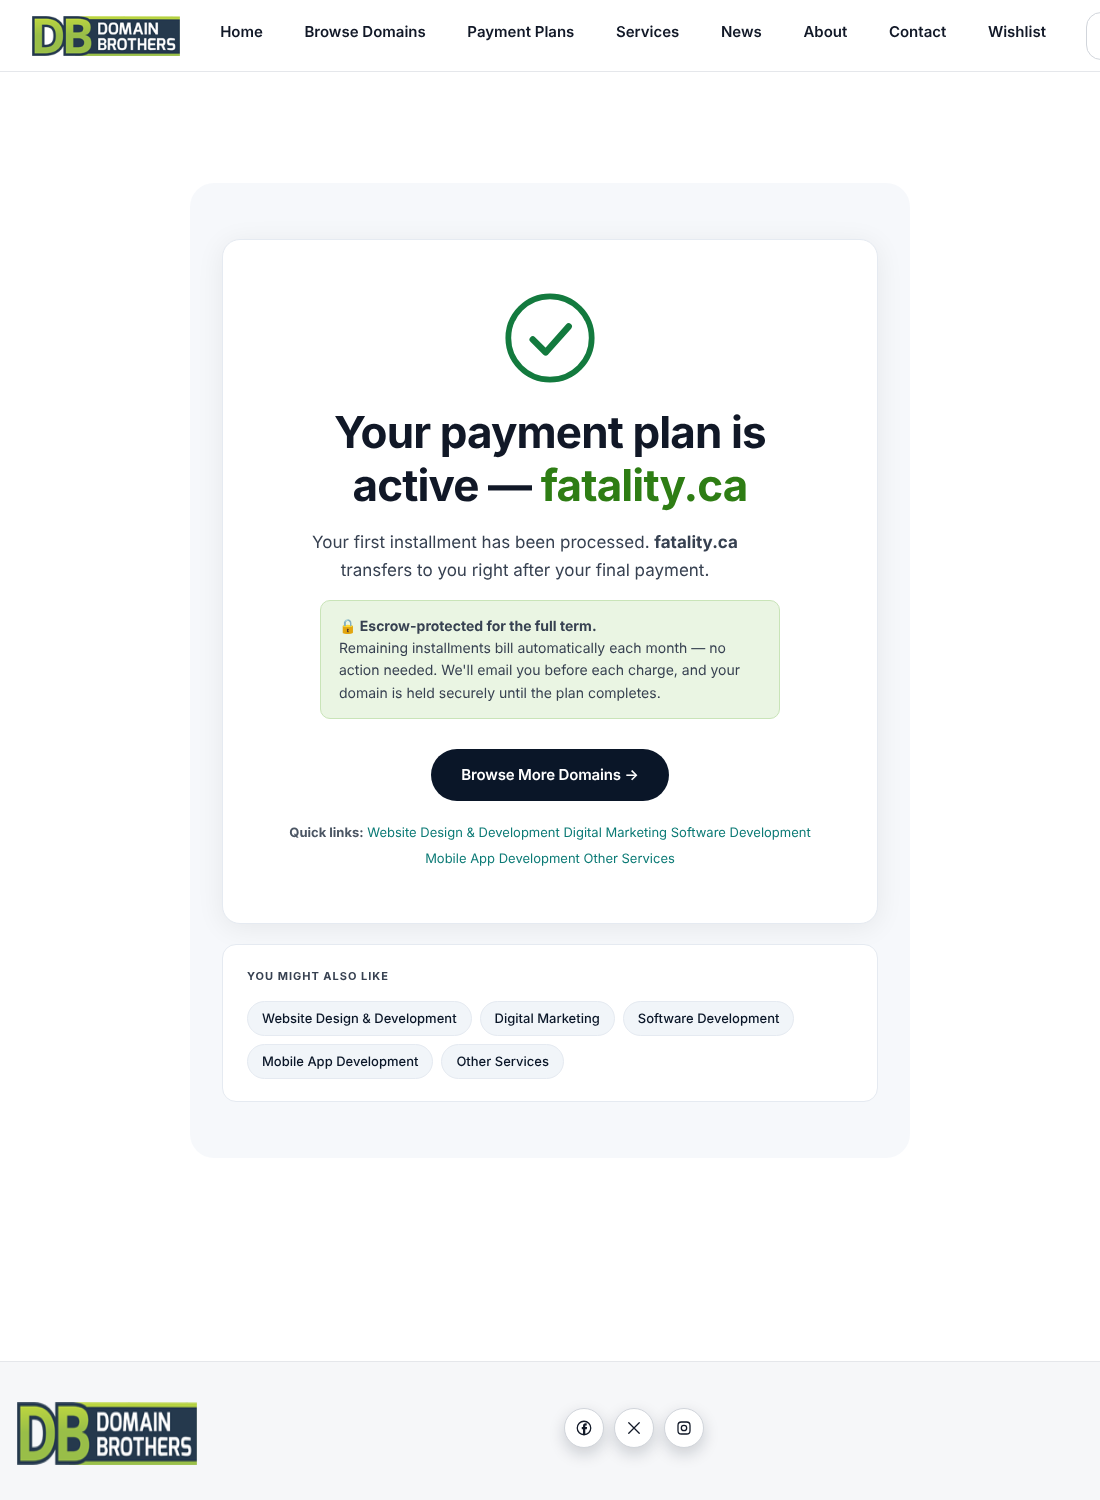
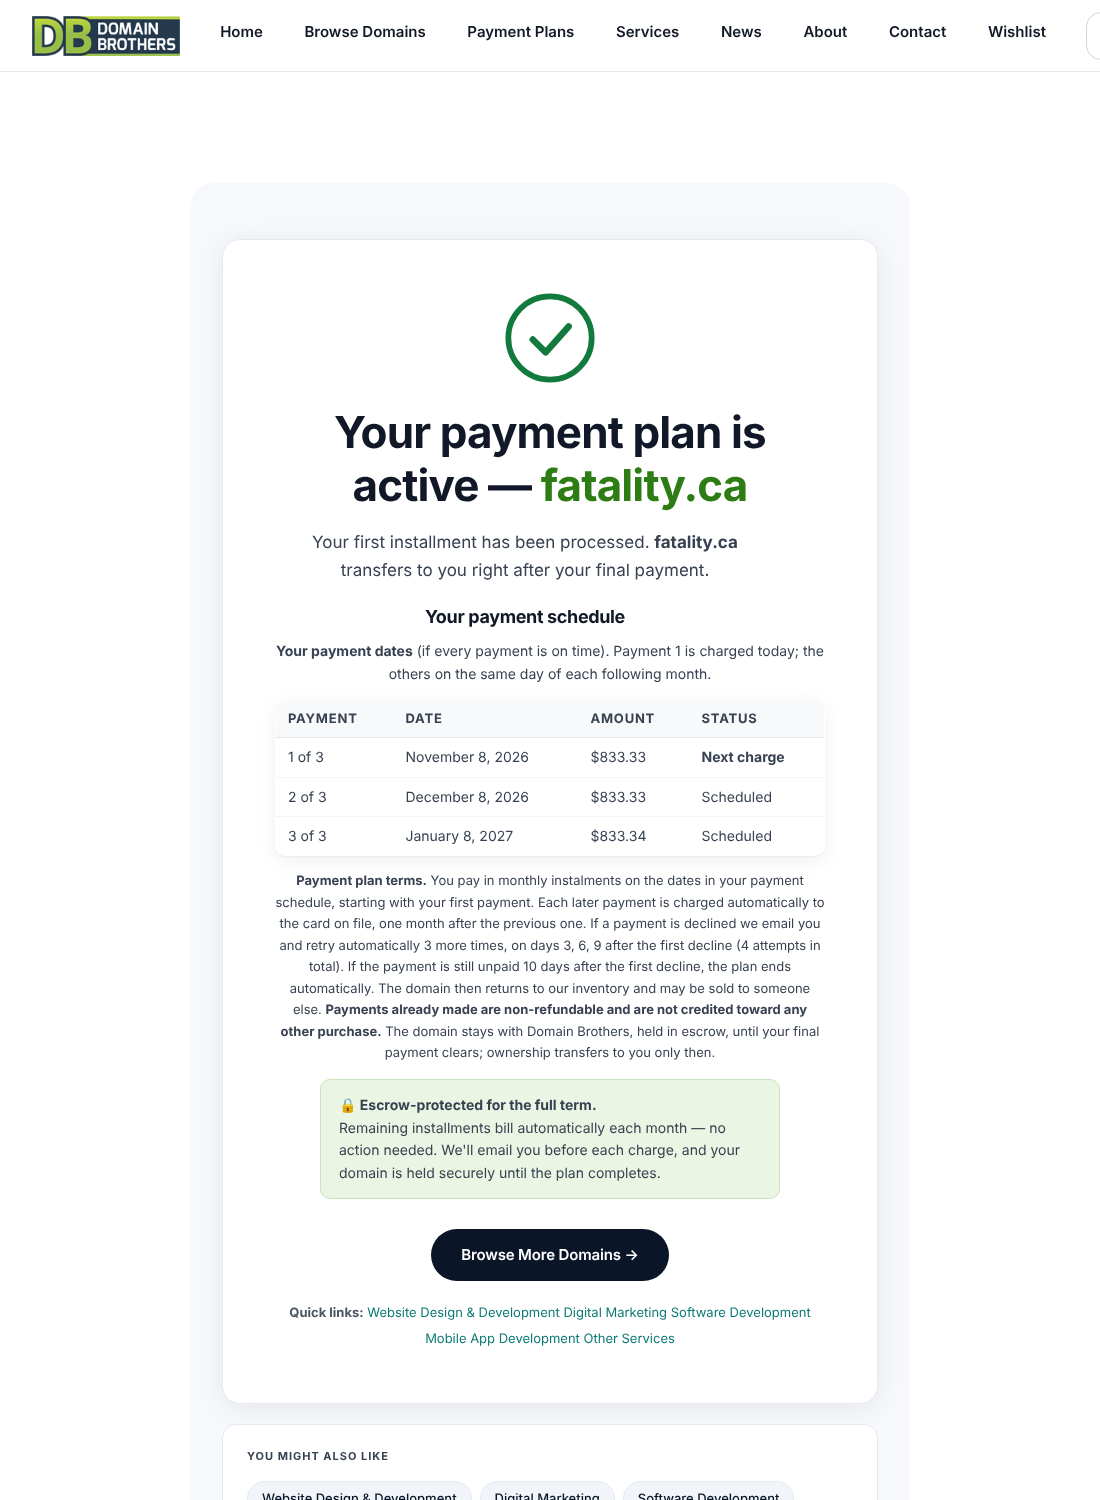
Payment plans: QA report section 34, checks for the schedule and terms, test README and checklist version
Claude-Session: https://claude.ai/code/session_01K6obJihKdmVCaNZTWGQrk7

diff --git a/tests/qa/stripe-test-purchase.js b/tests/qa/stripe-test-purchase.js
@@ -38,6 +38,11 @@ fs.mkdirSync(OUT, { recursive: true });
 	await page.fill('#co-phone', '+1 555 010 0000');
 	await page.click('#co-billing button[type=submit]');
 	if (await page.locator('#co-agree').count()) { await page.check('#co-agree'); }
+	if (MONTHS) {
+		const review = await page.locator('#co-panel-2').innerText().catch(() => '');
+		const dated = (review.match(/\b(January|February|March|April|May|June|July|August|September|October|November|December) \d{1,2}, \d{4}/g) || []).length;
+		check('checkout confirmation shows the dated payment schedule', /Your payment dates/.test(review) && dated >= Number(MONTHS), `${dated} dates for ${MONTHS} payments`);
+	}
 	await page.click('#co-confirm');
 	const frame = await page.waitForSelector('iframe[name^="__privateStripeFrame"]', { timeout: 30000 }).catch(() => null);
 	check('checkout shows the Stripe Payment Element', !!frame);

diff --git a/QA_REPORT.md b/QA_REPORT.md
@@ -624,3 +624,30 @@ A pillar guide and twelve supporting articles about premium domains, websites an
 - Crawl: not run (needs `BETA_BASIC`).
 - Account-flow "My offers" check: passed on rerun (27/27).
 - Listing templates: passed on rerun (6/6).
+
+## 34. Payment plans: dates, terms and notices in every email (v3.69.5)
+
+**Customer sees the dates before paying.** The checkout confirmation step shows a table of every payment with its date and amount ("Payment 1 is charged today; the others on the same day of each following month").
+
+**The thank-you page shows the schedule** with each payment marked Paid, Next charge or Scheduled, followed by the plan terms. The return link carries the term length (`plan_months`), signed with the rest of the link, so the page shows the dates even before the payment webhook has written the plan record.
+
+**First email** (plan started): the same schedule table and the terms. Previously the schedule was never filled in on this path.
+
+**Every monthly email** (reminder, payment received, back on track): the instalments still to be paid, and the terms.
+
+**Terms** (`db_plan_terms_html()`, used at checkout, on the domain page, in emails and on the thank-you page): one charge per month to the card on file; a declined payment is retried automatically 3 more times, on days 3, 6 and 9 after the first decline (4 attempts in total); if still unpaid 10 days after the first decline the plan ends; the domain returns to inventory and may be sold to someone else; payments already made are non-refundable and not credited to another purchase.
+
+**Failure notices** are numbered "Failed payment notice 1 of 4" to "4 of 4" and each gives the first-decline date, the three retry dates, and the termination date.
+
+**Checks**
+- `tests/plan/plan-schedule-test.php` (offline): 20/20. Covers instalment dates and amounts (sum to the plan total), states, the remaining-only table, the retry wording, the failure notice numbering and retry dates, and that the notice sits above the email footer.
+- `tests/plan/plan-lifecycle-test.php`: 50/50 (unchanged behaviour).
+- `tests/qa/stripe-test-purchase.js` on beta with `QA_MONTHS=3`: checkout confirmation lists 3 dates; the thank-you page lists 3 schedule rows and the retry terms; the purchase completes.
+
+**Not verified live:** the wording of the monthly and failure emails was checked offline, not by reading a delivered message. The beta test buyer addresses are example.com, so no mailbox was available here.
+
+**Dependency:** the retries (days 3, 6, 9), the notices and the termination all run from the daily job. On beta no real cron is configured yet (GO_LIVE_CHECKLIST, section 1). Until it is, no retry or notice is sent, so the terms describe behaviour that will not happen on beta.
+
+**Needs owner or counsel before go-live**
+- The terms, the thank-you page and the registry emails still say the domain is "held in escrow" and the thank-you box says "Escrow-protected for the full term". The plugin has no escrow integration; this wording needs confirming or changing. Section 5 of the checklist already lists it as an owner decision.
+- The forfeiture and retry wording needs legal review (`db-plan-lifecycle-block.php` header).

diff --git a/tests/README.md b/tests/README.md
@@ -93,6 +93,7 @@ Pays through the real checkout with Stripe's `4242` test card and checks the red
 - `qa/account-flow.js` (live): the account tabs, follower alerts (price, offer, sale), the one alert email with its stop link, My offers, Discover; removes its test data.
 - `qa/sales-features.js` (live): the domain finder and its shortlist, trust center, collections, "Why this price?" on domain pages, phone-width overflow, admin Sales funnel and Buyer intent reports.
 - `sales/sales-features-test.php` (offline): finder filters and ranking reasons, collection rules, funnel privacy, comparables, trust center wording, transfer stage order. Run: `php tests/sales/sales-features-test.php`.
+- `plan/plan-schedule-test.php` (offline): payment dates and amounts, remaining-payment tables, retry and terms wording, failure notice numbers and dates. Run: `php tests/plan/plan-schedule-test.php`.
 - `qa/email-templates.js` (live): the email template editor, every template rendered in the brand shell, edit/design/reset reaching real emails, access control.
 - `qa/wishlist-flow.js` (live): wishlist sign-in by emailed code (read back through a staging-only admin route), saving, the wishlist page, Domain Statistics, rate and origin limits; removes its test domain.
 - `qa/send-test-webhook.js`: sends a correctly signed synthetic Stripe event (`full` or `plan`) to a test-mode site, for example to try the orders log.

diff --git a/GO_LIVE_CHECKLIST.md b/GO_LIVE_CHECKLIST.md
@@ -1,6 +1,6 @@
 # Domain Brothers: production go-live checklist
 
-Current as of plugin **v3.69.1** (2026-11-08). Before approval, record the exact commit that is deployed: run `tools/build-release.sh` before packaging, then check Domain Brothers > Launch checks, which shows the version and commit. A test pass only counts for the commit it was run against. This replaces the older go-live notes in `HANDOFF.md`, `GOLIVE_TEST_PLAN.md` and `NEXT_STEPS.md` (July 2026, plugin v3.4.0). Those describe 0%-interest plans and features that have since changed.
+Current as of plugin **v3.69.5** (2026-11-08). Before approval, record the exact commit that is deployed: run `tools/build-release.sh` before packaging, then check Domain Brothers > Launch checks, which shows the version and commit. A test pass only counts for the commit it was run against. This replaces the older go-live notes in `HANDOFF.md`, `GOLIVE_TEST_PLAN.md` and `NEXT_STEPS.md` (July 2026, plugin v3.4.0). Those describe 0%-interest plans and features that have since changed.
 
 The detailed record of what was changed, and why, is in `QA_REPORT.md`. How to run the test suites is in `tests/README.md`.
 
